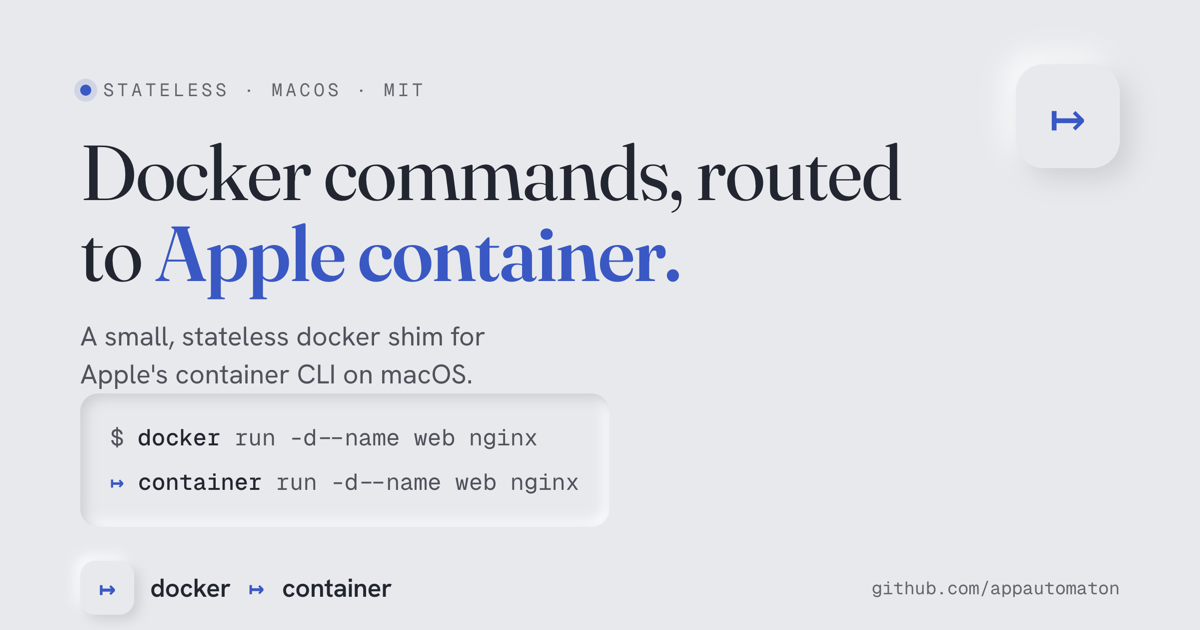
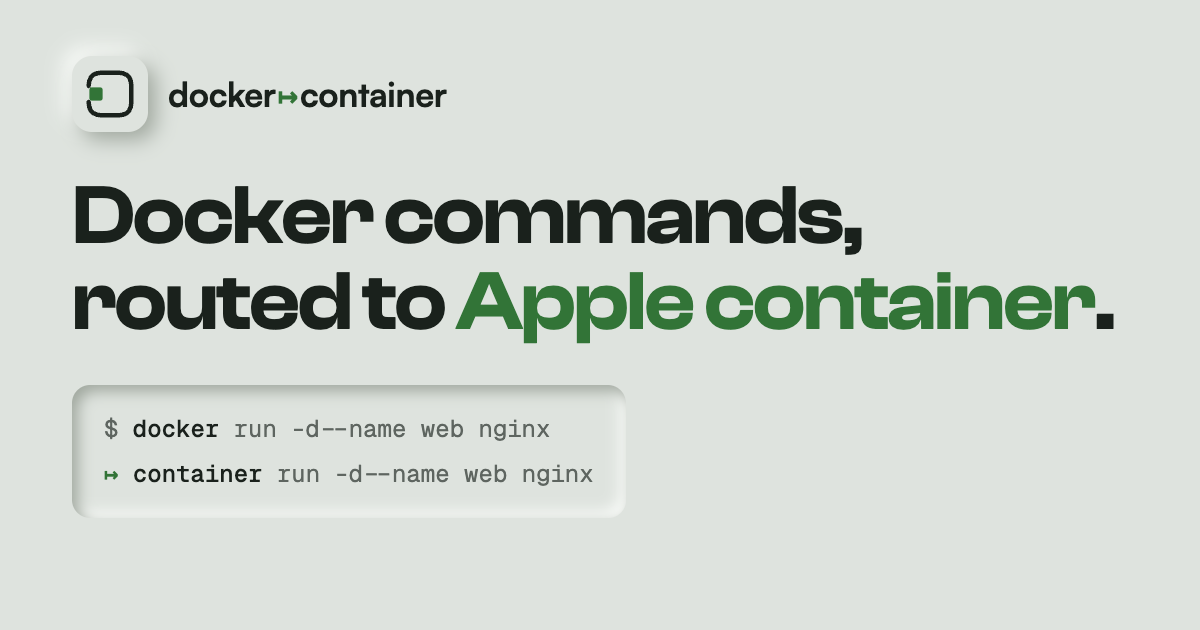
design: moss palette, Clash Display/Satoshi type, and the Dock mark
Rework the landing page inside its neumorphic language:

- Palette: replace indigo with Moss as a full surface system — the
  surface, both shadows, ink, and hairlines all carry the green
  temperature in light and dark, instead of swapping only the accent.
- Shadows: widen the light/dark deltas (the old ~6-8% lightness gap
  read as flat) and add a 1px inset hairline so card edges survive
  low-contrast rendering, worst in dark mode.
- Type: Clash Display (600) for display, Satoshi for body, served from
  the Fontshare CDN; Geist Mono stays for code. Google Fonts links and
  preconnects removed.
- Logo: the Dock — a macOS squircle port, open on the left, that the
  Docker crate glides into and seats flush. Header mark is inline SVG
  with a dock-settle-rest loop whose authored state is seated, so
  reduced-motion rests docked. Favicon is the static seated frame on a
  moss tile, legible at 16px.
- OG card regenerated to match the new brand.

diff --git a/docs/assets/css/tokens.css b/docs/assets/css/tokens.css
@@ -1,13 +1,15 @@
 /* tokens.css - design tokens for the "Precision instrument" system
  *
  * Refined neumorphism: one calm surface that elements extrude from, subtle dual
- * shadows plus a hairline, a single solid indigo accent, and zero gradients.
- * OKLCH throughout. Light and dark are tuned independently.
+ * shadows plus a hairline, a single solid moss accent, and zero gradients.
+ * The palette is a full surface system: surface, shadows, ink and hairline all
+ * carry the accent's temperature. OKLCH throughout; light and dark tuned
+ * independently. Type is Fontshare (ITF): Clash Display over Satoshi.
  */
 :root {
   /* Type */
-  --font-display: "Fraunces", Georgia, "Times New Roman", serif;
-  --font-body: "Hanken Grotesk", system-ui, -apple-system, sans-serif;
+  --font-display: "Clash Display", system-ui, -apple-system, sans-serif;
+  --font-body: "Satoshi", system-ui, -apple-system, sans-serif;
   --font-mono: "Geist Mono Variable", ui-monospace, "SF Mono", Menlo, monospace;
 
   /* Fluid type scale */
@@ -52,89 +54,95 @@
   color-scheme: light dark;
 }
 
-/* ─── Light: soft graphite ──────────────────────────────── */
+/* ─── Light: moss on warm-green stone ───────────────────── */
 :root, :root[data-theme="light"] {
   color-scheme: light;
 
-  --bg:        oklch(93.5% 0.004 262);          /* the neumorphic surface */
-  --nm-dark:   oklch(85% 0.008 262);            /* bottom-right shadow */
-  --nm-light:  oklch(99.5% 0.001 262);          /* top-left highlight */
+  /* Wider light/dark deltas than before (was ~6-8% lightness, nearly
+     invisible once rendered) — the extrusion needs to actually read. */
+  --bg:        oklch(91% 0.008 140);            /* the neumorphic surface */
+  --nm-dark:   oklch(72% 0.016 140);            /* bottom-right shadow */
+  --nm-light:  oklch(99.5% 0.004 140);          /* top-left highlight */
 
-  --ink:       oklch(27% 0.02 264);
-  --ink-2:     oklch(44% 0.016 264);
-  --ink-3:     oklch(51% 0.014 264);
+  --ink:       oklch(24% 0.014 155);
+  --ink-2:     oklch(42% 0.013 155);
+  --ink-3:     oklch(50% 0.012 155);
 
-  --accent:        oklch(50% 0.17 268);
-  --accent-hover:  oklch(44% 0.18 268);
-  --accent-ink:    oklch(99% 0.01 268);
-  --accent-soft:   oklch(50% 0.17 268 / 0.12);
-  --accent-ring:   oklch(50% 0.17 268 / 0.5);
+  --accent:        oklch(50% 0.115 145);
+  --accent-hover:  oklch(44% 0.125 145);
+  --accent-ink:    oklch(98.5% 0.012 145);
+  --accent-soft:   oklch(50% 0.115 145 / 0.14);
+  --accent-ring:   oklch(50% 0.115 145 / 0.5);
 
   --danger:    oklch(53% 0.19 25);
 
-  --hairline:  oklch(45% 0.02 264 / 0.10);
-  --code-ink:  oklch(34% 0.03 268);
+  --hairline:  oklch(35% 0.02 150 / 0.10);
+  --code-ink:  oklch(33% 0.04 148);
 
-  /* Neumorphic shadow recipes */
-  --nm-raised:    6px 6px 16px var(--nm-dark), -6px -6px 16px var(--nm-light);
-  --nm-raised-lg: 10px 10px 28px var(--nm-dark), -10px -10px 28px var(--nm-light);
-  --nm-raised-sm: 3px 3px 8px var(--nm-dark), -3px -3px 8px var(--nm-light);
-  --nm-inset:     inset 4px 4px 10px var(--nm-dark), inset -4px -4px 10px var(--nm-light);
-  --nm-inset-sm:  inset 2px 2px 6px var(--nm-dark), inset -2px -2px 6px var(--nm-light);
+  /* Neumorphic shadow recipes — larger offset/blur so the shadow has
+     presence instead of reading as a faint gradient. */
+  --nm-raised:    7px 7px 18px var(--nm-dark), -7px -7px 18px var(--nm-light);
+  --nm-raised-lg: 12px 12px 32px var(--nm-dark), -12px -12px 32px var(--nm-light);
+  --nm-raised-sm: 4px 4px 10px var(--nm-dark), -4px -4px 10px var(--nm-light);
+  --nm-inset:     inset 5px 5px 12px var(--nm-dark), inset -5px -5px 12px var(--nm-light);
+  --nm-inset-sm:  inset 3px 3px 7px var(--nm-dark), inset -3px -3px 7px var(--nm-light);
 }
 
-/* ─── Dark: slate ───────────────────────────────────────── */
+/* ─── Dark: moss on deep forest slate ───────────────────── */
 :root[data-theme="dark"] {
   color-scheme: dark;
 
-  --bg:        oklch(25% 0.012 265);
-  --nm-dark:   oklch(19% 0.01 265);
-  --nm-light:  oklch(31% 0.016 265);
+  /* Dark mode is the harder case for neumorphism — human contrast
+     sensitivity in low-luminance ranges is worse, so the delta has to be
+     wider here than in light mode just to read the same. */
+  --bg:        oklch(23% 0.014 150);
+  --nm-dark:   oklch(10% 0.012 150);
+  --nm-light:  oklch(36% 0.018 148);
 
-  --ink:       oklch(95% 0.005 260);
-  --ink-2:     oklch(76% 0.012 260);
-  --ink-3:     oklch(66% 0.013 260);
+  --ink:       oklch(95% 0.006 150);
+  --ink-2:     oklch(78% 0.012 150);
+  --ink-3:     oklch(66% 0.012 150);
 
-  --accent:        oklch(74% 0.15 270);
-  --accent-hover:  oklch(80% 0.14 270);
-  --accent-ink:    oklch(22% 0.04 270);
-  --accent-soft:   oklch(74% 0.15 270 / 0.16);
-  --accent-ring:   oklch(74% 0.15 270 / 0.5);
+  --accent:        oklch(74% 0.13 148);
+  --accent-hover:  oklch(80% 0.12 148);
+  --accent-ink:    oklch(19% 0.035 148);
+  --accent-soft:   oklch(74% 0.13 148 / 0.18);
+  --accent-ring:   oklch(74% 0.13 148 / 0.5);
 
   --danger:    oklch(72% 0.16 25);
 
-  --hairline:  oklch(100% 0 0 / 0.07);
-  --code-ink:  oklch(82% 0.04 270);
+  --hairline:  oklch(95% 0.018 150 / 0.09);
+  --code-ink:  oklch(84% 0.045 148);
 
-  --nm-raised:    6px 6px 16px var(--nm-dark), -6px -6px 16px var(--nm-light);
-  --nm-raised-lg: 10px 10px 28px var(--nm-dark), -10px -10px 28px var(--nm-light);
-  --nm-raised-sm: 3px 3px 8px var(--nm-dark), -3px -3px 8px var(--nm-light);
-  --nm-inset:     inset 4px 4px 10px var(--nm-dark), inset -4px -4px 10px var(--nm-light);
-  --nm-inset-sm:  inset 2px 2px 6px var(--nm-dark), inset -2px -2px 6px var(--nm-light);
+  --nm-raised:    7px 7px 18px var(--nm-dark), -7px -7px 18px var(--nm-light);
+  --nm-raised-lg: 12px 12px 32px var(--nm-dark), -12px -12px 32px var(--nm-light);
+  --nm-raised-sm: 4px 4px 10px var(--nm-dark), -4px -4px 10px var(--nm-light);
+  --nm-inset:     inset 5px 5px 12px var(--nm-dark), inset -5px -5px 12px var(--nm-light);
+  --nm-inset-sm:  inset 3px 3px 7px var(--nm-dark), inset -3px -3px 7px var(--nm-light);
 }
 
 @media (prefers-color-scheme: dark) {
   :root:not([data-theme="light"]):not([data-theme="dark"]) {
     color-scheme: dark;
-    --bg: oklch(25% 0.012 265);
-    --nm-dark: oklch(19% 0.01 265);
-    --nm-light: oklch(31% 0.016 265);
-    --ink: oklch(95% 0.005 260);
-    --ink-2: oklch(76% 0.012 260);
-    --ink-3: oklch(66% 0.013 260);
-    --accent: oklch(74% 0.15 270);
-    --accent-hover: oklch(80% 0.14 270);
-    --accent-ink: oklch(22% 0.04 270);
-    --accent-soft: oklch(74% 0.15 270 / 0.16);
-    --accent-ring: oklch(74% 0.15 270 / 0.5);
+    --bg: oklch(23% 0.014 150);
+    --nm-dark: oklch(10% 0.012 150);
+    --nm-light: oklch(36% 0.018 148);
+    --ink: oklch(95% 0.006 150);
+    --ink-2: oklch(78% 0.012 150);
+    --ink-3: oklch(66% 0.012 150);
+    --accent: oklch(74% 0.13 148);
+    --accent-hover: oklch(80% 0.12 148);
+    --accent-ink: oklch(19% 0.035 148);
+    --accent-soft: oklch(74% 0.13 148 / 0.18);
+    --accent-ring: oklch(74% 0.13 148 / 0.5);
     --danger: oklch(72% 0.16 25);
-    --hairline: oklch(100% 0 0 / 0.07);
-    --code-ink: oklch(82% 0.04 270);
-    --nm-raised: 6px 6px 16px var(--nm-dark), -6px -6px 16px var(--nm-light);
-    --nm-raised-lg: 10px 10px 28px var(--nm-dark), -10px -10px 28px var(--nm-light);
-    --nm-raised-sm: 3px 3px 8px var(--nm-dark), -3px -3px 8px var(--nm-light);
-    --nm-inset: inset 4px 4px 10px var(--nm-dark), inset -4px -4px 10px var(--nm-light);
-    --nm-inset-sm: inset 2px 2px 6px var(--nm-dark), inset -2px -2px 6px var(--nm-light);
+    --hairline: oklch(95% 0.018 150 / 0.09);
+    --code-ink: oklch(84% 0.045 148);
+    --nm-raised: 7px 7px 18px var(--nm-dark), -7px -7px 18px var(--nm-light);
+    --nm-raised-lg: 12px 12px 32px var(--nm-dark), -12px -12px 32px var(--nm-light);
+    --nm-raised-sm: 4px 4px 10px var(--nm-dark), -4px -4px 10px var(--nm-light);
+    --nm-inset: inset 5px 5px 12px var(--nm-dark), inset -5px -5px 12px var(--nm-light);
+    --nm-inset-sm: inset 3px 3px 7px var(--nm-dark), inset -3px -3px 7px var(--nm-light);
   }
 }
 

diff --git a/docs/assets/css/styles.css b/docs/assets/css/styles.css
@@ -26,12 +26,12 @@ body {
 
 /* ─────────────────────── Typography ────────────────────── */
 h1, h2, h3, h4 { color: var(--ink); text-wrap: balance; line-height: 1.05; }
-/* Serif (Fraunces) is reserved for the big display moments; hierarchy comes
-   from weight, not just color. Everything else stays in the grotesque. */
-h1, h2 { font-family: var(--font-display); font-optical-sizing: auto; }
+/* Clash Display is reserved for the big display moments; everything else
+   stays in Satoshi. Hierarchy comes from weight, not just color. */
+h1, h2 { font-family: var(--font-display); }
 h3, h4 { font-family: var(--font-body); }
-h1 { font-size: var(--text-2xl); font-weight: 400; letter-spacing: -0.018em; line-height: 1.0; }
-h2 { font-size: var(--text-xl); font-weight: 500; letter-spacing: -0.012em; }
+h1 { font-size: var(--text-2xl); font-weight: 600; letter-spacing: -0.02em; line-height: 1.0; }
+h2 { font-size: var(--text-xl); font-weight: 600; letter-spacing: -0.015em; }
 h3 { font-size: var(--text-md); font-weight: 600; letter-spacing: -0.01em; }
 
 p { color: var(--ink-2); }
@@ -142,11 +142,24 @@ main { padding-bottom: var(--section-y); }
   letter-spacing: -0.02em; color: var(--ink); margin-right: auto;
 }
 .brand:hover { color: var(--ink); }
+/* The mark: the dock — a macOS squircle port, open on the left, that the
+   Docker crate glides into and seats flush. The crate's authored position
+   is the seated state, so when the global reduced-motion rule disables the
+   animation the mark rests docked. */
 .brand__mark {
-  width: 34px; height: 34px; border-radius: 10px;
-  display: grid; place-items: center; flex-shrink: 0;
-  background: var(--bg); color: var(--accent); box-shadow: var(--nm-raised-sm);
-  font-size: 16px;
+  width: 36px; height: 36px; flex-shrink: 0; display: grid; place-items: center;
+  background: var(--bg); border-radius: 10px; box-shadow: var(--nm-raised-sm);
+}
+.brand__mark svg { display: block; width: 100%; height: 100%; }
+.mark-crate { animation: mark-dock 4.2s cubic-bezier(0.25, 0.9, 0.3, 1) infinite; }
+@keyframes mark-dock {
+  0%   { transform: translateX(-17px); opacity: 0; }
+  8%   { opacity: 1; }
+  30%  { transform: translateX(1.2px); }
+  40%  { transform: translateX(0); }
+  88%  { transform: translateX(0); opacity: 1; }
+  97%  { opacity: 0; }
+  100% { transform: translateX(-17px); opacity: 0; }
 }
 .brand__name b { color: var(--accent); font-weight: 600; padding-inline: 0.1em; }
 
@@ -233,7 +246,10 @@ main { padding-bottom: var(--section-y); }
 .grid--2 { grid-template-columns: repeat(2, 1fr); }
 
 .card {
-  background: var(--bg); border-radius: var(--radius-lg); box-shadow: var(--nm-raised);
+  background: var(--bg); border-radius: var(--radius-lg);
+  /* Raised shadow does the elevation work; the 1px inset hairline is just an
+     edge-legibility assist so the boundary still reads at low contrast. */
+  box-shadow: var(--nm-raised), inset 0 0 0 1px var(--hairline);
   padding: var(--pad-card);
   display: flex; flex-direction: column;
   transition: transform var(--dur-base) var(--ease), box-shadow var(--dur-base) var(--ease);
@@ -241,14 +257,15 @@ main { padding-bottom: var(--section-y); }
 .card__mark {
   width: 40px; height: 40px; border-radius: 12px; margin-bottom: var(--space-4);
   display: grid; place-items: center; flex-shrink: 0;
-  background: var(--bg); box-shadow: var(--nm-inset-sm);
-  color: var(--accent); font-family: var(--font-body); font-weight: 600; font-size: var(--text-md);
+  background: radial-gradient(circle at 32% 28%, var(--accent-soft), transparent 70%), var(--bg);
+  box-shadow: var(--nm-inset-sm);
+  color: var(--accent); font-family: var(--font-body); font-weight: 700; font-size: var(--text-md);
 }
-.card h3 { margin-bottom: var(--space-2); }
+.card h3 { margin-bottom: var(--space-2); font-weight: 700; }
 .card p { font-size: var(--text-sm); color: var(--ink-2); line-height: 1.55; }
 .card p code { font-size: 0.92em; }
 @media (hover: hover) {
-  .card:hover { transform: translateY(-4px); box-shadow: var(--nm-raised-lg); }
+  .card:hover { transform: translateY(-4px); box-shadow: var(--nm-raised-lg), inset 0 0 0 1px var(--hairline); }
 }
 
 /* Command tier card */
@@ -265,19 +282,24 @@ main { padding-bottom: var(--section-y); }
 .tier__more { margin-top: var(--space-4); padding-top: var(--space-4); border-top: 1px solid var(--hairline); }
 .tier__more > summary {
   list-style: none; cursor: pointer; display: inline-flex; align-items: center; gap: var(--space-2);
-  font-family: var(--font-mono); font-size: var(--text-xs); letter-spacing: 0.04em; color: var(--accent);
-  min-height: 28px;
+  font-family: var(--font-mono); font-size: var(--text-xs); letter-spacing: 0.04em; color: var(--ink-2);
+  padding: 0.45em 0.9em; border-radius: var(--radius-full);
+  background: var(--bg); box-shadow: var(--nm-raised-sm);
+  transition: box-shadow var(--dur-fast) var(--ease), color var(--dur-fast) var(--ease), transform var(--dur-fast) var(--ease);
 }
+.tier__more > summary:hover { color: var(--accent); transform: translateY(-1px); }
 .tier__more > summary::-webkit-details-marker { display: none; }
-.tier__more > summary::after { content: "+"; font-weight: 700; }
+.tier__more > summary::after { content: "+"; font-weight: 700; color: var(--accent); }
+.tier__more[open] > summary { box-shadow: var(--nm-inset-sm); }
 .tier__more[open] > summary::after { content: "−"; }
-.tier__more[open] > summary { color: var(--ink-3); }
+.tier__more[open] > summary:hover { transform: none; }
 .tier__more .cmd-list { margin-top: var(--space-3); }
 
 /* ───────────────────── Flow (how it works) ─────────────── */
 .flow { display: flex; align-items: stretch; gap: var(--space-4); margin-top: var(--space-2); }
 .flow__node {
-  flex: 1; background: var(--bg); border-radius: var(--radius-md); box-shadow: var(--nm-raised);
+  flex: 1; background: var(--bg); border-radius: var(--radius-md);
+  box-shadow: var(--nm-raised), inset 0 0 0 1px var(--hairline);
   padding: var(--space-5); text-align: center;
 }
 .flow__node.is-dest { box-shadow: 0 10px 28px var(--accent-soft), inset 0 0 0 1.5px var(--accent); }
@@ -324,7 +346,7 @@ pre code { background: none; box-shadow: none; padding: 0; color: inherit; font-
 
 /* ─────────────────────────── FAQ ───────────────────────── */
 .faq { display: flex; flex-direction: column; gap: var(--space-4); }
-.faq__item { background: var(--bg); border-radius: var(--radius-md); box-shadow: var(--nm-raised); }
+.faq__item { background: var(--bg); border-radius: var(--radius-md); box-shadow: var(--nm-raised), inset 0 0 0 1px var(--hairline); }
 .faq__item > summary {
   list-style: none; cursor: pointer; padding: var(--space-5) var(--pad-card);
   font-family: var(--font-body); font-weight: 500; font-size: var(--text-md);

diff --git a/docs/index.html b/docs/index.html
@@ -17,13 +17,13 @@
     })();
   </script>
 
-  <link rel="preconnect" href="https://fonts.googleapis.com" />
-  <link rel="preconnect" href="https://fonts.gstatic.com" crossorigin />
+  <link rel="preconnect" href="https://api.fontshare.com" />
+  <link rel="preconnect" href="https://cdn.fontshare.com" crossorigin />
   <link rel="preconnect" href="https://cdn.jsdelivr.net" crossorigin />
-  <link rel="stylesheet" href="https://fonts.googleapis.com/css2?family=Fraunces:opsz,wght@9..144,400;9..144,500;9..144,600&family=Hanken+Grotesk:wght@400;500;600;700&display=swap" media="print" onload="this.media='all'" />
+  <link rel="stylesheet" href="https://api.fontshare.com/v2/css?f[]=clash-display@600&f[]=satoshi@400,500,700&display=swap" media="print" onload="this.media='all'" />
   <link rel="stylesheet" href="https://cdn.jsdelivr.net/npm/@fontsource-variable/geist-mono@latest/index.css" media="print" onload="this.media='all'" />
   <noscript>
-    <link rel="stylesheet" href="https://fonts.googleapis.com/css2?family=Fraunces:opsz,wght@9..144,400;9..144,500;9..144,600&family=Hanken+Grotesk:wght@400;500;600;700&display=swap" />
+    <link rel="stylesheet" href="https://api.fontshare.com/v2/css?f[]=clash-display@600&f[]=satoshi@400,500,700&display=swap" />
     <link rel="stylesheet" href="https://cdn.jsdelivr.net/npm/@fontsource-variable/geist-mono@latest/index.css" />
   </noscript>
 
@@ -122,7 +122,16 @@
   <header class="site-header">
     <div class="container site-header__inner">
       <a class="brand" href="./">
-        <span class="brand__mark" aria-hidden="true">↦</span>
+        <span class="brand__mark" aria-hidden="true">
+          <!-- The dock: a macOS squircle port, open on the left; the Docker
+               crate glides in and seats flush. Your container, docked
+               natively on the Mac. -->
+          <svg viewBox="0 0 48 48" fill="none">
+            <path d="M8 18 Q8 8 18 8 H30 Q40 8 40 18 V30 Q40 40 30 40 H18 Q8 40 8 30"
+                  stroke="var(--ink)" stroke-width="3.4" stroke-linecap="round"/>
+            <rect class="mark-crate" x="8.5" y="19" width="10" height="10" rx="2" fill="var(--accent)"/>
+          </svg>
+        </span>
         <span class="brand__name">docker<b>↦</b>container</span>
       </a>
 